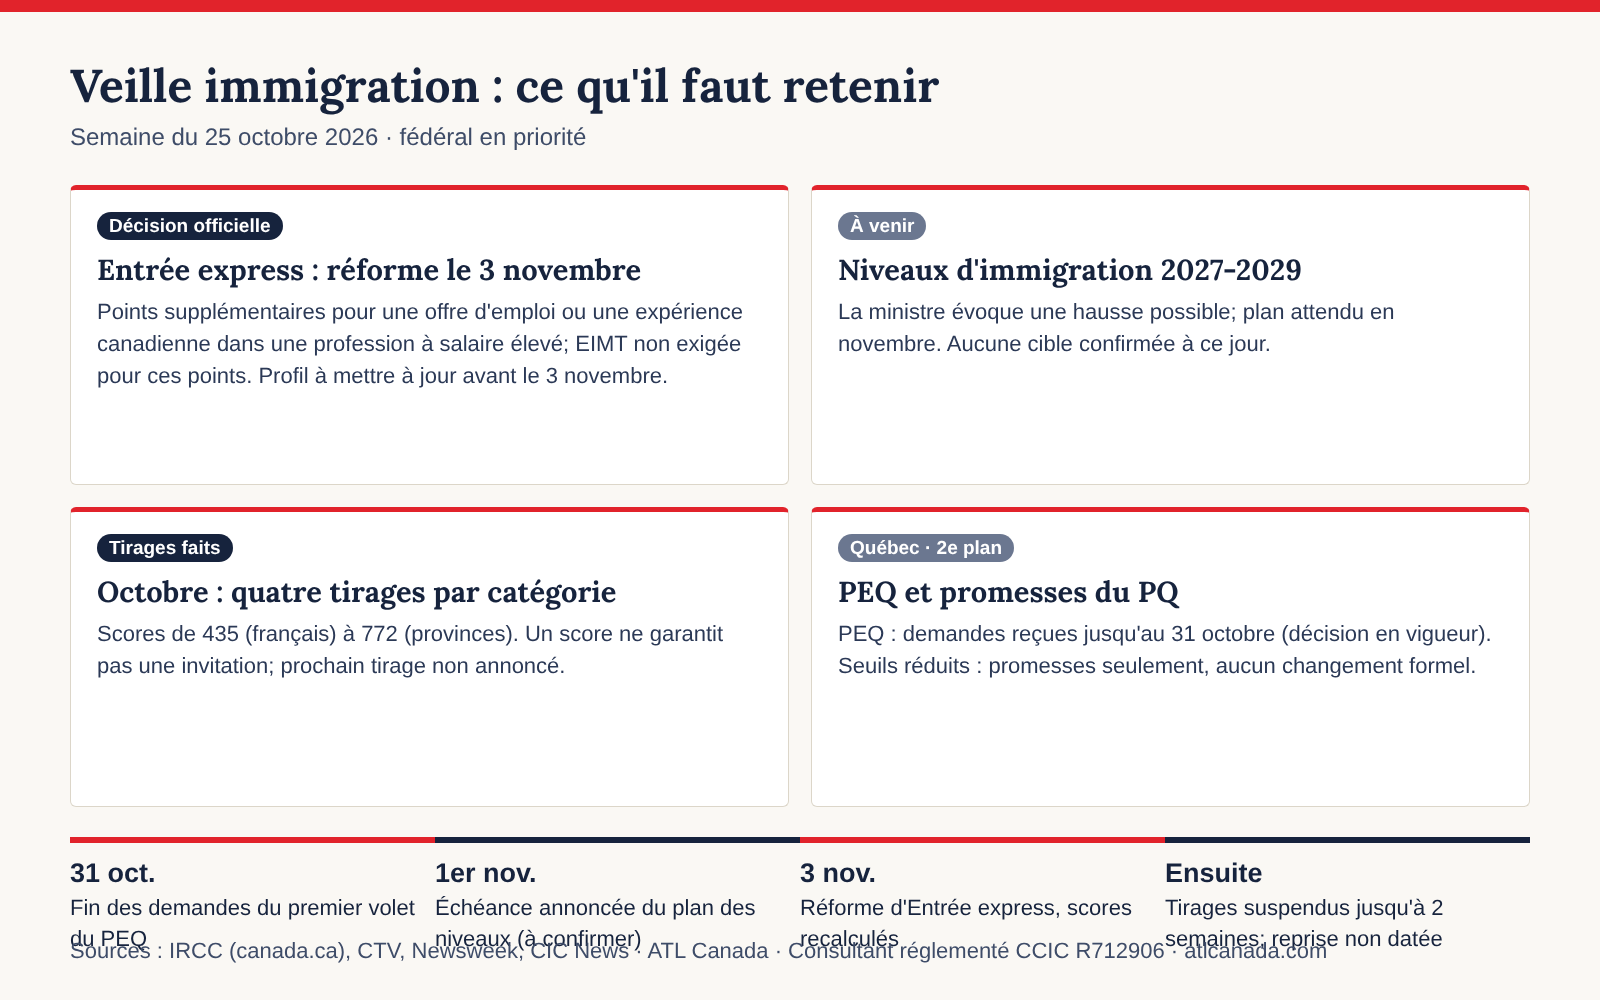
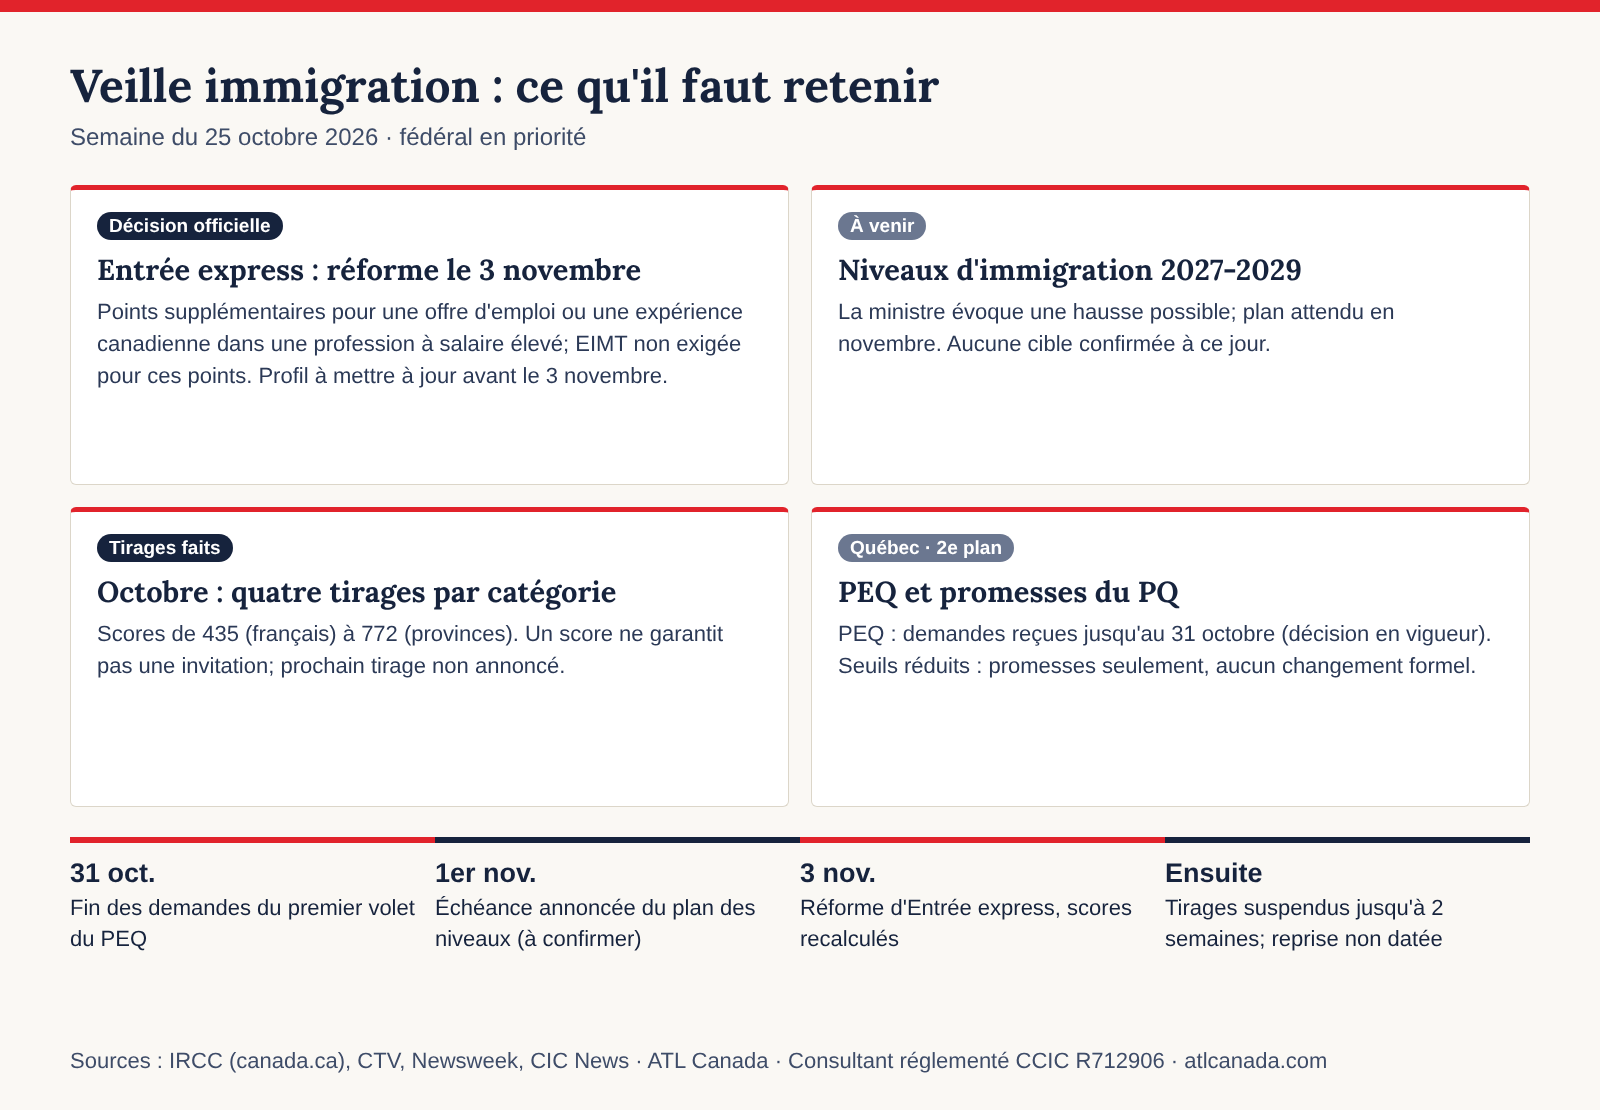
Actualités : correction du chevauchement du pied de page dans le visuel du résumé
Claude-Session: https://claude.ai/code/session_017aM2h9JFSXwBYQp3Ptd94v

Changed region(s): [[0.0312, 0.062, 0.9688, 0.403], [0.0312, 0.434, 0.9688, 0.682], [0.0312, 0.744, 0.9688, 0.961]]

diff --git a/actualites/index.html b/actualites/index.html
@@ -47,7 +47,7 @@
   <p class="lede">Les nouvelles qui comptent pour les candidats, expliquées simplement, avec leurs sources.</p>
 </div></section>
 <section class="news-page"><div class="wrap">
-<article class="news-item" id="veille-resume-semaine-25-octobre-2026"><p class="news-meta"><span class="news-tag">Résumé de la semaine</span><time datetime="2026-10-26">26 oct. 2026</time></p><h2>Immigration au Canada : l&#x27;essentiel de la semaine, avant le 3 novembre</h2><p>Décision officielle (en vigueur le 3 novembre 2026, pas encore appliquée) : selon IRCC, Entrée express accordera des points supplémentaires pour une offre d&#x27;emploi ou une expérience canadienne dans une profession à salaire élevé, sans EIMT; les scores seront recalculés et les tirages suspendus jusqu&#x27;à deux semaines. À venir (aucune cible confirmée) : selon CTV et Newsweek, la ministre évoque une hausse possible des niveaux d&#x27;immigration et le plan est attendu en novembre. Tirages d&#x27;octobre, selon la presse spécialisée : scores de 435 (français) à 772 (candidats des provinces). Québec : les demandes du premier volet du PEQ sont reçues jusqu&#x27;au 31 octobre; la baisse des seuils promise par le Parti québécois reste une promesse, sans changement formel confirmé.</p><figure class="news-figure"><img src="/assets/actu/veille-resume-25-octobre-2026.png" alt="Résumé en quatre blocs : réforme d&#x27;Entrée express le 3 novembre, plan des niveaux attendu en novembre, tirages d&#x27;octobre, PEQ et promesses du Parti québécois, avec les dates du 31 octobre, du 1er novembre et du 3 novembre." width="1600" height="1000" loading="lazy"><figcaption>Résumé de la veille du 25 octobre 2026. Seule la réforme d&#x27;Entrée express est une décision officielle; le reste est à venir, déjà effectué ou promis.</figcaption></figure><figure class="news-figure"><img src="/assets/actu/entree-express-tirages-octobre-2026.png" alt="Graphique à barres des scores CRS minimaux des tirages d&#x27;octobre 2026 : métiers spécialisés 476, candidats des provinces 772, expérience canadienne 519, compétence en français 435." width="1600" height="880" loading="lazy"><figcaption>Scores minimaux et invitations des tirages d&#x27;octobre 2026, selon la presse spécialisée; chiffres à confirmer sur canada.ca.</figcaption></figure><div class="news-impact"><strong>Ce que cela signifie pour vous</strong>Si vous avez un profil Entrée express, vérifiez-le et mettez-le à jour avant le 3 novembre. Les points supplémentaires ne garantissent pas une invitation, et une offre d&#x27;emploi doit être authentique. Les chiffres des tirages sont à confirmer sur canada.ca. Pour une évaluation de votre situation, prenez rendez-vous.</div><p class="news-sources">Sources : <a href="https://www.canada.ca/en/immigration-refugees-citizenship/news/2026/10/canada-refocusing-express-entry-on-top-talent-that-drives-economic-growth.html" rel="noopener" target="_blank">IRCC (canada.ca) : Canada refocusing Express Entry on top talent that drives economic growth</a> · <a href="https://www.ctvnews.ca/politics/article/immigration-minister-says-immigration-levels-will-be-going-up-heres-what-that-means/" rel="noopener" target="_blank">CTV News : Immigration minister says immigration levels will be going up</a> · <a href="https://www.newsweek.com/canadas-immigration-plan-could-be-about-to-change-again-12577945" rel="noopener" target="_blank">Newsweek : Canada&#x27;s immigration plan could be about to change again</a> · <a href="https://ijob.ma/immigration/tirage-francophone-express-entry-octobre-2026/" rel="noopener" target="_blank">ijob.ma : tirage francophone du 16 octobre 2026</a> · <a href="https://www.cicnews.com/2026/10/peq-applications-quickly-surpass-quebecs-forecast-1081675.html" rel="noopener" target="_blank">CIC News : PEQ applications quickly surpass Quebec&#x27;s forecast</a></p></article>
+<article class="news-item" id="veille-resume-semaine-25-octobre-2026"><p class="news-meta"><span class="news-tag">Résumé de la semaine</span><time datetime="2026-10-26">26 oct. 2026</time></p><h2>Immigration au Canada : l&#x27;essentiel de la semaine, avant le 3 novembre</h2><p>Décision officielle (en vigueur le 3 novembre 2026, pas encore appliquée) : selon IRCC, Entrée express accordera des points supplémentaires pour une offre d&#x27;emploi ou une expérience canadienne dans une profession à salaire élevé, sans EIMT; les scores seront recalculés et les tirages suspendus jusqu&#x27;à deux semaines. À venir (aucune cible confirmée) : selon CTV et Newsweek, la ministre évoque une hausse possible des niveaux d&#x27;immigration et le plan est attendu en novembre. Tirages d&#x27;octobre, selon la presse spécialisée : scores de 435 (français) à 772 (candidats des provinces). Québec : les demandes du premier volet du PEQ sont reçues jusqu&#x27;au 31 octobre; la baisse des seuils promise par le Parti québécois reste une promesse, sans changement formel confirmé.</p><figure class="news-figure"><img src="/assets/actu/veille-resume-25-octobre-2026.png" alt="Résumé en quatre blocs : réforme d&#x27;Entrée express le 3 novembre, plan des niveaux attendu en novembre, tirages d&#x27;octobre, PEQ et promesses du Parti québécois, avec les dates du 31 octobre, du 1er novembre et du 3 novembre." width="1600" height="1110" loading="lazy"><figcaption>Résumé de la veille du 25 octobre 2026. Seule la réforme d&#x27;Entrée express est une décision officielle; le reste est à venir, déjà effectué ou promis.</figcaption></figure><figure class="news-figure"><img src="/assets/actu/entree-express-tirages-octobre-2026.png" alt="Graphique à barres des scores CRS minimaux des tirages d&#x27;octobre 2026 : métiers spécialisés 476, candidats des provinces 772, expérience canadienne 519, compétence en français 435." width="1600" height="880" loading="lazy"><figcaption>Scores minimaux et invitations des tirages d&#x27;octobre 2026, selon la presse spécialisée; chiffres à confirmer sur canada.ca.</figcaption></figure><div class="news-impact"><strong>Ce que cela signifie pour vous</strong>Si vous avez un profil Entrée express, vérifiez-le et mettez-le à jour avant le 3 novembre. Les points supplémentaires ne garantissent pas une invitation, et une offre d&#x27;emploi doit être authentique. Les chiffres des tirages sont à confirmer sur canada.ca. Pour une évaluation de votre situation, prenez rendez-vous.</div><p class="news-sources">Sources : <a href="https://www.canada.ca/en/immigration-refugees-citizenship/news/2026/10/canada-refocusing-express-entry-on-top-talent-that-drives-economic-growth.html" rel="noopener" target="_blank">IRCC (canada.ca) : Canada refocusing Express Entry on top talent that drives economic growth</a> · <a href="https://www.ctvnews.ca/politics/article/immigration-minister-says-immigration-levels-will-be-going-up-heres-what-that-means/" rel="noopener" target="_blank">CTV News : Immigration minister says immigration levels will be going up</a> · <a href="https://www.newsweek.com/canadas-immigration-plan-could-be-about-to-change-again-12577945" rel="noopener" target="_blank">Newsweek : Canada&#x27;s immigration plan could be about to change again</a> · <a href="https://ijob.ma/immigration/tirage-francophone-express-entry-octobre-2026/" rel="noopener" target="_blank">ijob.ma : tirage francophone du 16 octobre 2026</a> · <a href="https://www.cicnews.com/2026/10/peq-applications-quickly-surpass-quebecs-forecast-1081675.html" rel="noopener" target="_blank">CIC News : PEQ applications quickly surpass Quebec&#x27;s forecast</a></p></article>
 <article class="news-item" id="entree-express-baremes-officiels-points-salaire-eleve-ircc"><p class="news-meta"><span class="news-tag">Entrée express</span><time datetime="2026-10-24">24 oct. 2026</time></p><h2>Entrée express : IRCC publie les barèmes officiels des points pour les professions à salaire élevé</h2><p>Décision officielle d&#x27;IRCC, en vigueur le 3 novembre 2026 (pas encore appliquée). Selon la page d&#x27;IRCC, une offre d&#x27;emploi qualifiante dans une profession à salaire élevé vaut 50, 70 ou 100 points, et au moins 12 mois d&#x27;expérience canadienne dans une telle profession valent 20, 40 ou 70 points, selon que le salaire médian de la profession atteint au moins 1,3, 1,5 ou 2 fois le salaire médian canadien. Les deux voies ne s&#x27;additionnent pas : la plus avantageuse est retenue, et le facteur d&#x27;intégration au marché du travail est plafonné à 150 points (140 avec conjoint). L&#x27;offre doit être à temps plein et continue pendant au moins un an après l&#x27;obtention de la résidence permanente, et une offre révoquée n&#x27;est plus admissible. Une EIMT ne sera plus exigée pour ces points; les scores seront recalculés et les tirages suspendus pendant cette période, jusqu&#x27;à deux semaines selon IRCC.</p><figure class="news-figure"><img src="/assets/actu/entree-express-baremes-3-novembre-2026.png" alt="Graphique à barres : offre d&#x27;emploi qualifiante 50, 70 ou 100 points; expérience canadienne de 12 mois ou plus 20, 40 ou 70 points, selon le salaire médian de la profession (1,3, 1,5 ou 2 fois le salaire médian canadien)." width="1600" height="1180" loading="lazy"><figcaption>Barème des points publié par IRCC, en vigueur le 3 novembre 2026. Les points ne garantissent pas une invitation.</figcaption></figure><figure class="news-figure"><img src="/assets/actu/entree-express-calendrier-3-novembre-2026.png" alt="Calendrier : annonce le 16 octobre, mise à jour du profil avant le 3 novembre, entrée en vigueur le 3 novembre, puis recalcul des scores et tirages suspendus jusqu&#x27;à deux semaines." width="1600" height="640" loading="lazy"><figcaption>Calendrier selon les communiqués d&#x27;IRCC du 16 octobre 2026. La date de reprise des tirages n&#x27;est pas annoncée.</figcaption></figure><div class="news-impact"><strong>Ce que cela signifie pour vous</strong>Si vous avez un profil Entrée express, vérifiez avant le 3 novembre si votre profession ou votre offre d&#x27;emploi pourrait être visée, et mettez votre profil à jour au besoin. Des points supplémentaires ne garantissent pas une invitation, qui dépend du score de coupure de chaque tirage. Une offre d&#x27;emploi doit être réelle : une évaluation personnalisée de votre dossier est recommandée.</div><p class="news-sources">Sources : <a href="https://www.canada.ca/en/immigration-refugees-citizenship/news/2026/10/changes-to-express-entry-for-high-wage-occupations.html" rel="noopener" target="_blank">IRCC (canada.ca) : Changes to Express Entry for high-wage occupations</a> · <a href="https://www.canada.ca/en/immigration-refugees-citizenship/news/2026/10/canada-refocusing-express-entry-on-top-talent-that-drives-economic-growth.html" rel="noopener" target="_blank">IRCC (canada.ca) : Canada refocusing Express Entry on top talent that drives economic growth</a></p></article>
 <article class="news-item" id="parrainage-fin-politique-famille-non-declaree-2026"><p class="news-meta"><span class="news-tag">Parrainage</span><time datetime="2026-10-23">23 oct. 2026</time></p><h2>Parrainage familial : fin de la politique pour les membres de la famille non déclarés</h2><p>Mesure en vigueur : selon IRCC, sa politique d&#x27;intérêt public pour les membres de la famille non déclarés a pris fin le 10 septembre 2026. Elle permettait, pour certains profils (par exemple des réfugiés réinstallés, des personnes protégées ou des personnes déjà parrainées dans la catégorie du regroupement familial), de parrainer un conjoint, un partenaire ou un enfant à charge qui n&#x27;avait pas été déclaré ni examiné lors de l&#x27;immigration du parrain. IRCC continue de l&#x27;appliquer aux demandes reçues entre le 31 mai 2019 et le 10 septembre 2026; la page officielle ne précise pas le traitement des demandes reçues après cette date.</p><div class="news-impact"><strong>Ce que cela signifie pour vous</strong>Lors d&#x27;une demande de résidence permanente, déclarez tous les membres de votre famille (conjoint, partenaire, enfants à charge), même s&#x27;ils ne viendront pas au Canada, afin de pouvoir les parrainer plus tard. Les proches déclarés doivent passer l&#x27;examen médical et les vérifications de sécurité. Chaque situation est différente : une évaluation personnalisée est recommandée avant de déposer.</div><p class="news-sources">Sources : <a href="https://www.canada.ca/en/immigration-refugees-citizenship/services/immigrate-canada/family-sponsorship/spouse-partner-children/who-you-can-sponsor/undeclared-family.html" rel="noopener" target="_blank">IRCC : politique d&#x27;intérêt public pour les membres de la famille non déclarés (expirée)</a></p></article>
 <article class="news-item" id="express-entree-profession-salaire-eleve-definition-2026"><p class="news-meta"><span class="news-tag">Entrée express</span><time datetime="2026-10-22">22 oct. 2026</time></p><h2>Entrée express : ce que signifie « profession à salaire élevé » avant le 3 novembre 2026</h2><p>Décision annoncée par IRCC le 16 octobre 2026, avec entrée en vigueur le 3 novembre 2026. Selon IRCC, une profession à salaire élevé est une profession dont le salaire médian est d&#x27;au moins 1,3 fois celui de l&#x27;ensemble de la main-d&#x27;œuvre canadienne; le critère vise la profession et non le salaire du candidat. Les candidats ayant une expérience de travail canadienne admissible ou une offre d&#x27;emploi qualifiante dans une telle profession recevront des points supplémentaires, et une évaluation d&#x27;impact sur le marché du travail (EIMT) ne sera plus exigée pour ces points. Les scores des profils existants seront recalculés, avec une suspension des tirages pendant ce temps.</p><div class="news-impact"><strong>Ce que cela signifie pour vous</strong>Si vous avez un profil Entrée express, la profession que vous exercez ou visez pourrait influencer votre score. Des points supplémentaires ne garantissent pas une invitation à présenter une demande. Vérifiez votre profil avant le 3 novembre et consultez la liste officielle d&#x27;IRCC; une évaluation personnalisée permet de savoir si ces règles vous concernent.</div><p class="news-sources">Sources : <a href="https://www.canada.ca/en/immigration-refugees-citizenship/news/2026/10/canada-refocusing-express-entry-on-top-talent-that-drives-economic-growth.html" rel="noopener" target="_blank">IRCC — Canada refocusing Express Entry on top talent that drives economic growth</a></p></article>
